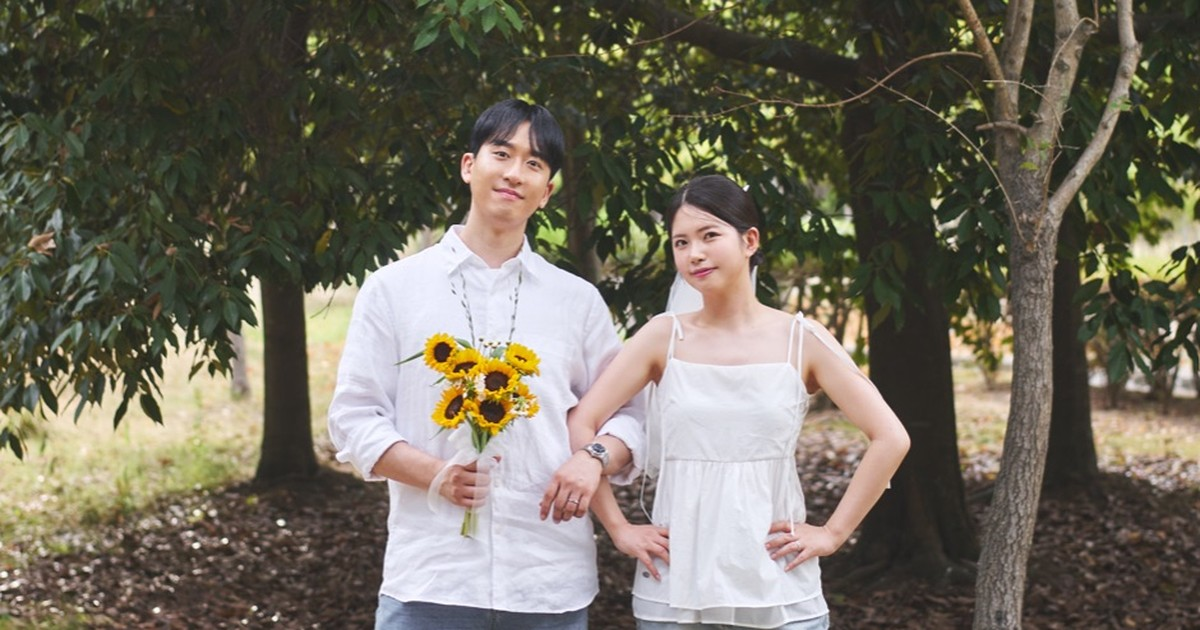
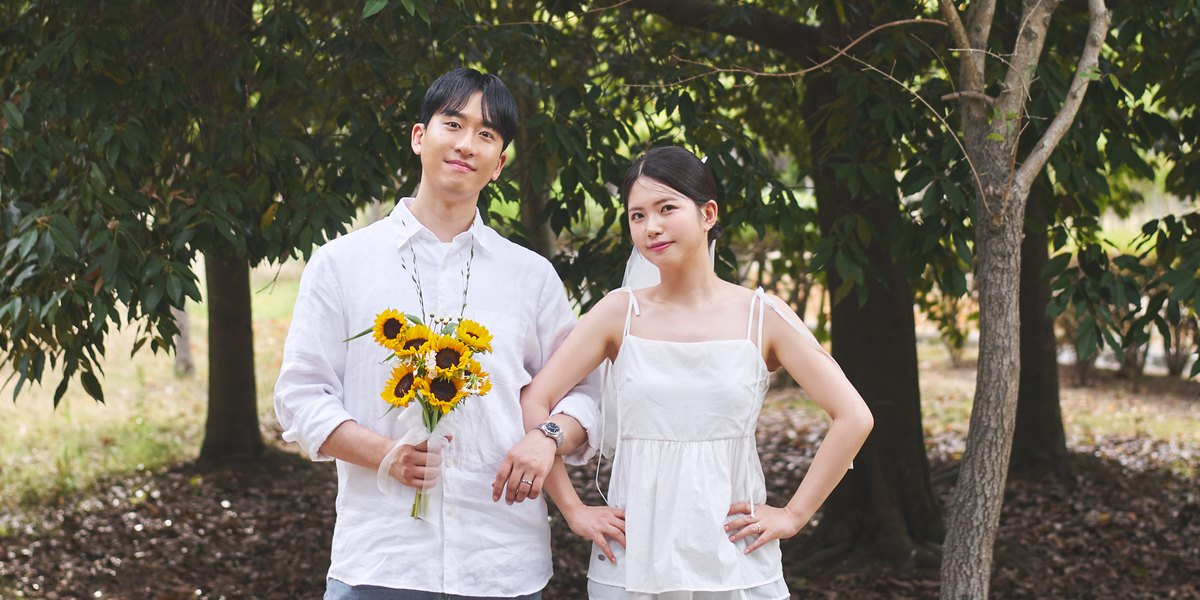
카톡 공유 미리보기가 꽉 차도록 OG 이미지를 2:1로 교체
카카오톡 대화방 링크 미리보기는 이미지를 800x400(2:1)로 강제 리사이즈·크롭합니다.
기존 og.jpg는 1200x630(1.905:1)이라 상하가 잘리거나 여백이 생겨 꽉 차지 않았습니다.

- public/og.jpg 를 원본(웨딩사진/9.png, 4333x6500)에서 두 사람 중심으로
  다시 크롭해 1200x600(정확히 2:1)으로 교체. 이전보다 인물이 크게 잡힙니다.
- layout.tsx 의 og:image:height 630 → 600 으로 실제 파일과 일치시킴.
- Share.tsx 의 카카오 feed 템플릿에 imageWidth/imageHeight 추가.
  크기를 명시하지 않으면 카카오가 작은 썸네일로 띄울 수 있습니다.
- 장인어른(박상정) 연락처 010-2846-2807 → 010-2946-2807 정정.
- 실수로 커밋돼 있던 'Claude outputs/og.jpg' 제거 및 .gitignore 등록.

diff --git a/src/config/wedding.ts b/src/config/wedding.ts
@@ -56,7 +56,7 @@ const bride: Person = {
   en: "Geonyoung", // 영문 표기는 원하시는 철자로 바꾸세요 (Gunyoung, Keonyoung 등)
   phone: "010-2624-3101", // TODO: 신부 연락처
   rank: "둘째딸", // 언니가 있어 딸 중 둘째
-  father: { name: "박상정", phone: "010-2846-2807" },
+  father: { name: "박상정", phone: "010-2946-2807" },
   mother: { name: "강명숙", phone: "010-3099-3101" },
 };
 
@@ -180,8 +180,10 @@ export const wedding = {
     url: "https://wedding.guwonsoft.com",
     title: "김준일 ♥ 박건영 결혼합니다",
     description: "2026년 11월 7일 토요일 오전 11시 · 부전교회 3층 세움홀",
-    // 카톡/문자 공유 썸네일. public/og.jpg (1200x630, 갤러리 09번 웨딩사진 상반신 크롭)
-    // 다른 사진으로 바꾸려면 public/og.jpg 를 교체하면 됩니다.
+    // 카톡/문자 공유 썸네일. public/og.jpg (1200x600, 갤러리 09번 웨딩사진 상반신 크롭)
+    // 카카오톡 대화방 미리보기는 2:1로 강제 리사이즈하므로 반드시 2:1을 유지하세요.
+    // 비율이 어긋나면 상하가 잘리거나 여백이 생깁니다.
+    // 크기를 바꾸면 layout.tsx 의 ogImages 와 Share.tsx 의 imageWidth/Height 도 함께 맞춰야 합니다.
     ogImage: "/og.jpg",
   },
 };

diff --git a/src/components/Share.tsx b/src/components/Share.tsx
@@ -45,6 +45,10 @@ export function Share() {
         title: wedding.meta.title,
         description: `${formatKoreanDateTime(wedding.date)}\n${wedding.venue.name} ${wedding.venue.hall}`,
         imageUrl: new URL(wedding.meta.ogImage || "/opengraph-image", wedding.meta.url).toString(),
+        // 크기를 명시하지 않으면 카카오가 이미지를 작은 썸네일로 띄울 수 있습니다.
+        // og.jpg 의 실제 크기(2:1)와 반드시 같아야 합니다.
+        imageWidth: 1200,
+        imageHeight: 600,
         link: { mobileWebUrl: wedding.meta.url, webUrl: wedding.meta.url },
       },
       buttons: [

diff --git a/src/app/layout.tsx b/src/app/layout.tsx
@@ -31,7 +31,7 @@ const siteUrl = process.env.NEXT_PUBLIC_SITE_URL || wedding.meta.url;
 
 // ogImage를 비워두면 app/opengraph-image.tsx 가 그린 이미지를 Next가 자동으로 붙입니다.
 const ogImages = wedding.meta.ogImage
-  ? [{ url: wedding.meta.ogImage, width: 1200, height: 630, alt: wedding.meta.title }]
+  ? [{ url: wedding.meta.ogImage, width: 1200, height: 600, alt: wedding.meta.title }]
   : undefined;
 
 export const metadata: Metadata = {
